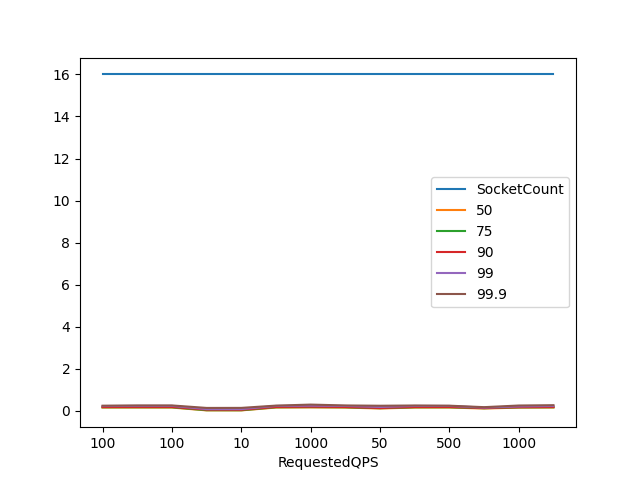
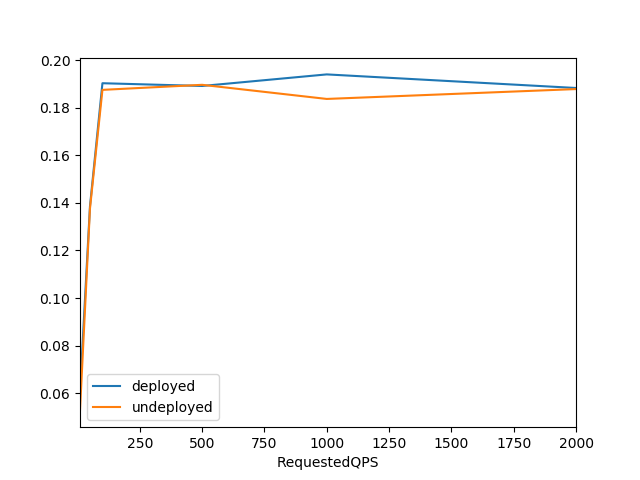
draw plots for performance tests

diff --git a/performance_test/plot.py b/performance_test/plot.py
@@ -4,7 +4,7 @@ import pandas as pd
 
 class Plotter:
   def __init__(self):
-    self.PARAMS = ["Jitter", "SocketCount", "RequestedQPS"]
+    self.PARAMS = ["Jitter", "SocketCount", "RequestedQPS", "Deployed"]
     self.DEFAULT = {"SocketCount": 16, "RequestedQPS": 1000}
     self.PERCENTS = ["50", "75", "90", "99", "99.9"]
     self.data = self.read_data()
@@ -12,6 +12,7 @@ class Plotter:
   def read_json(self, filename):
     with open(filename) as file:
       result = json.load(file)
+    result["Deployed"] = (filename.split("_")[3] == "deployed")
     return result
 
   def read_data(self):
@@ -19,26 +20,53 @@ class Plotter:
     data = {param: [] for param in self.PARAMS + self.PERCENTS}
     for filename in filenames:
       result = self.read_json(filename)
+
       # record the parameters
       for param in self.PARAMS:
         data[param].append(result[param])
+
       # record the percentiles
       percentiles = result["DurationHistogram"]["Percentiles"]
       for percentile in percentiles:
         data[str(percentile["Percentile"])].append(percentile["Value"])
-    return pd.DataFrame(data)
 
-  def plot(self, jitter, param, default):
+    data = pd.DataFrame(data)
+    data[self.PERCENTS] = data[self.PERCENTS].astype(float)
+    data["RequestedQPS"] = data["RequestedQPS"].astype(int)
+    data = data.groupby(self.PARAMS).mean().reset_index()
+    return data
+
+  def select_data(self, jitter, param, default, percent):
     data = self.data
+
+    # select data for varying param
     data = data[data["Jitter"] == jitter]
     data = data[data[default] == self.DEFAULT[default]]
-    data = data.set_index(param)
-    plot = data.plot.line()
+
+    # set index
+    data = data.set_index(param).sort_index()
+
+    # find deployed and undeployed
+    deployed_data = data.loc[data["Deployed"], percent]
+    undeployed_data = data.loc[~data["Deployed"], percent]
+    data = pd.concat([deployed_data, undeployed_data], axis=1)
+    data.columns = ["deployed", "undeployed"]
+    return data
+    
+
+  def plot(self, jitter, param, default, percent):
+    data = self.select_data(jitter, param, default, percent)
+    plot = data.plot()
     fig = plot.get_figure()
     fig.savefig("jitter={}_param={}.png".format(jitter, param))
 
   def plot_all(self):
-    self.plot(True, self.PARAMS[1], self.PARAMS[2])
-    self.plot(False, self.PARAMS[1], self.PARAMS[2])
-    self.plot(True, self.PARAMS[2], self.PARAMS[1])
-    self.plot(False, self.PARAMS[2], self.PARAMS[1])
+    self.plot(True, self.PARAMS[1], self.PARAMS[2], "90")
+    self.plot(False, self.PARAMS[1], self.PARAMS[2], "90")
+    self.plot(True, self.PARAMS[2], self.PARAMS[1], "90")
+    self.plot(False, self.PARAMS[2], self.PARAMS[1], "90")
+
+
+if __name__ == '__main__':
+  p = Plotter()
+  p.plot_all()
